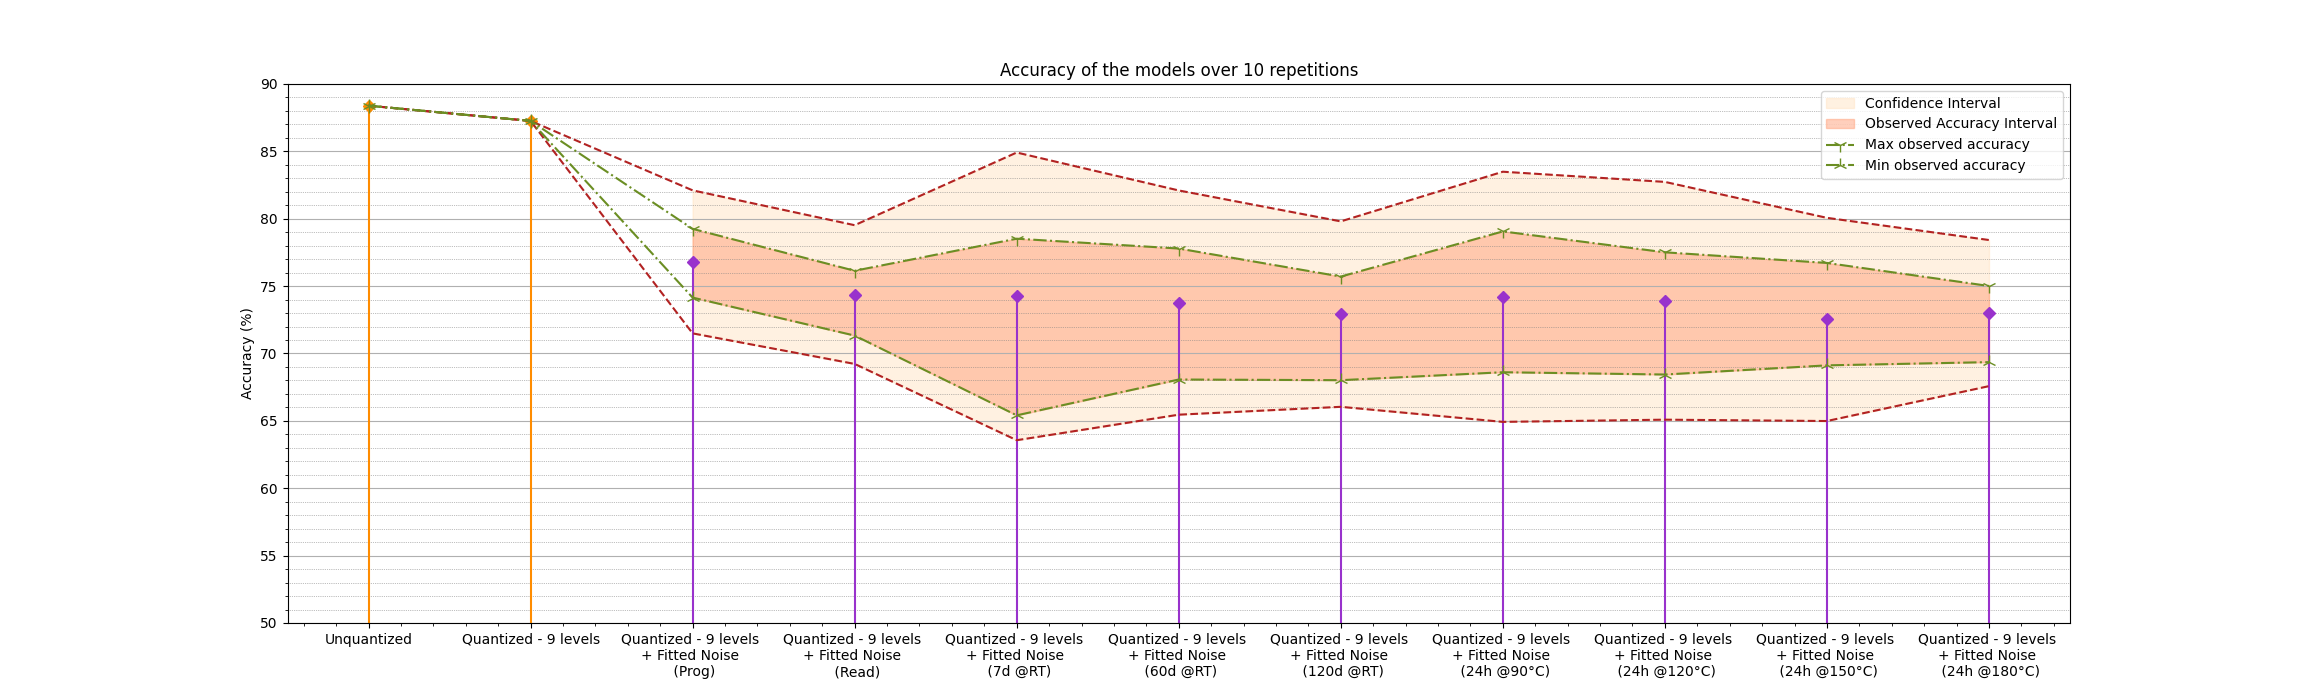
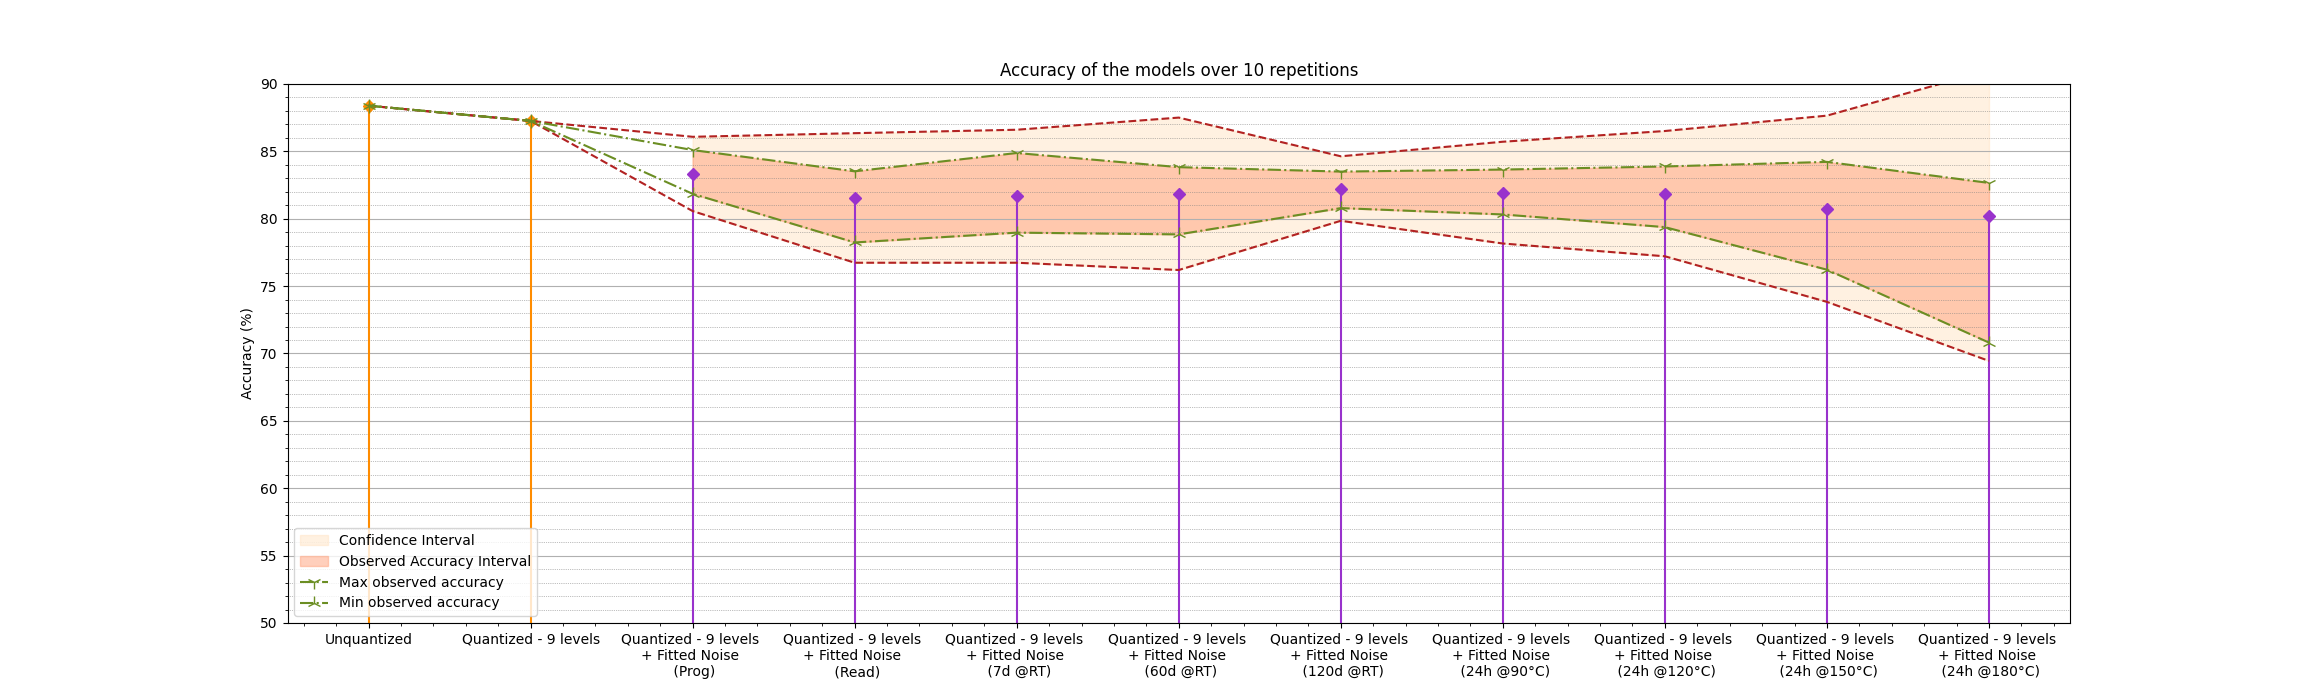
added/corrected plots + updated resnet.py

Changed region(s): [[0.2161, 0.12, 0.8952, 0.63], [0.1235, 0.75, 0.247, 0.87]]

diff --git a/sandbox/cuda/resnet.py b/sandbox/cuda/resnet.py
@@ -588,7 +588,7 @@ if __name__ == '__main__':
     print(f"Selected level: {SELECTED_LEVEL}")
 
     RPU_CONFIG  = IdealPreset()
-    RPU_CONFIG.noise_model= JustStdNoiseModel(file_path = path,
+    RPU_CONFIG.noise_model= JustMedianNoiseModel(file_path = path,
                                                 type = CHOSEN_NOISE,
                                                 g_converter=SinglePairConductanceConverter(g_max=40.)),
                     
@@ -628,7 +628,7 @@ if __name__ == '__main__':
             resolution=0.2 if SELECTED_LEVEL == 9 else 0.12,
             levels = SELECTED_LEVEL,
             )
-        RPU_CONFIG.noise_model=JustStdNoiseModel(file_path = path,
+        RPU_CONFIG.noise_model=JustMedianNoiseModel(file_path = path,
                                                         type = CHOSEN_NOISE,
                                                         g_converter=SinglePairConductanceConverter(g_max=40.)),
 
